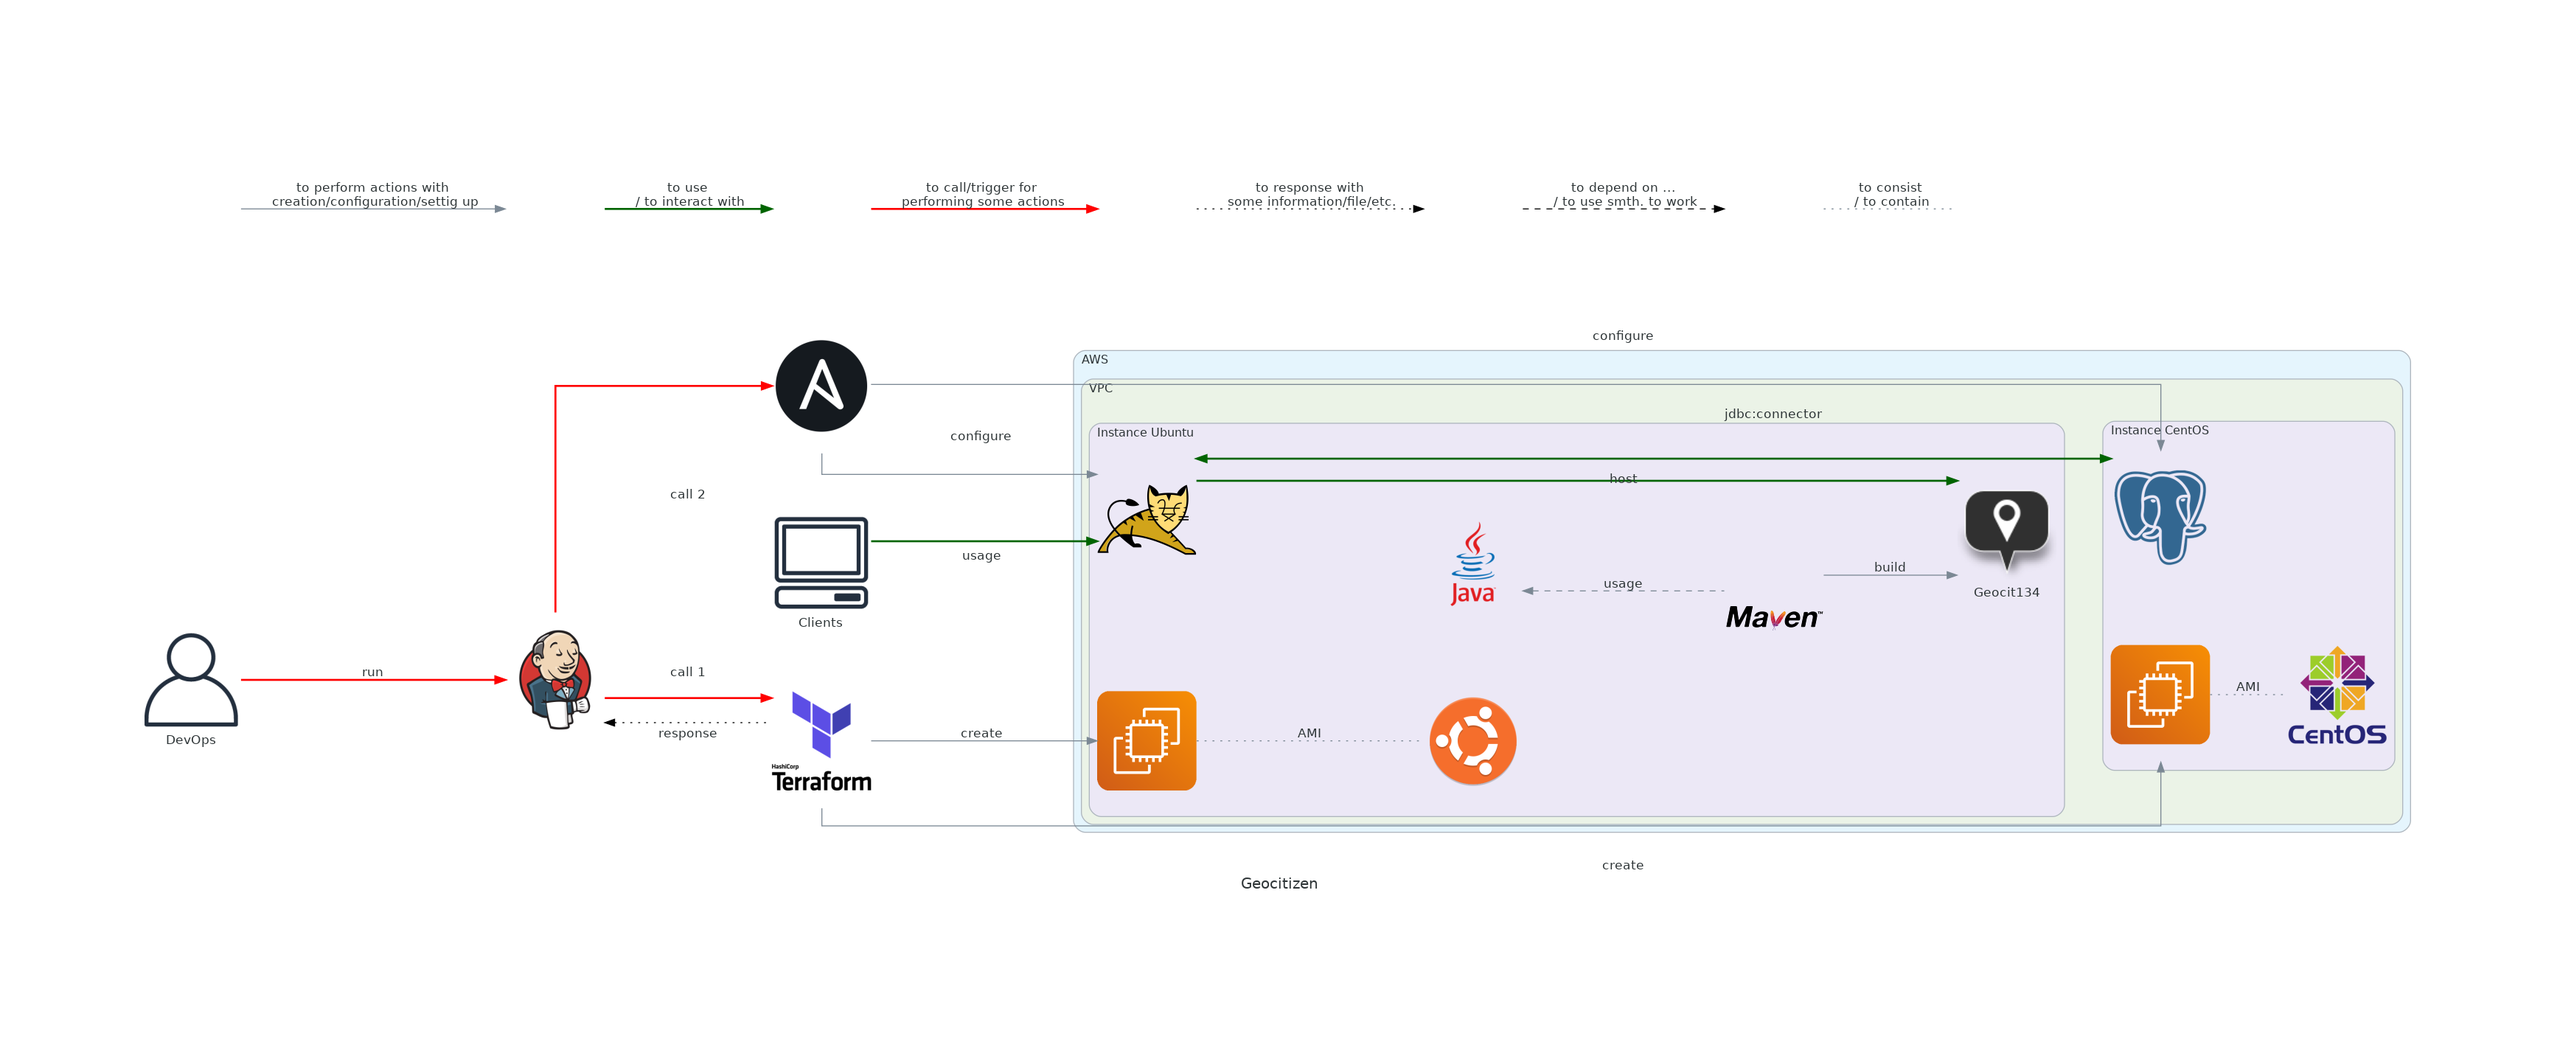
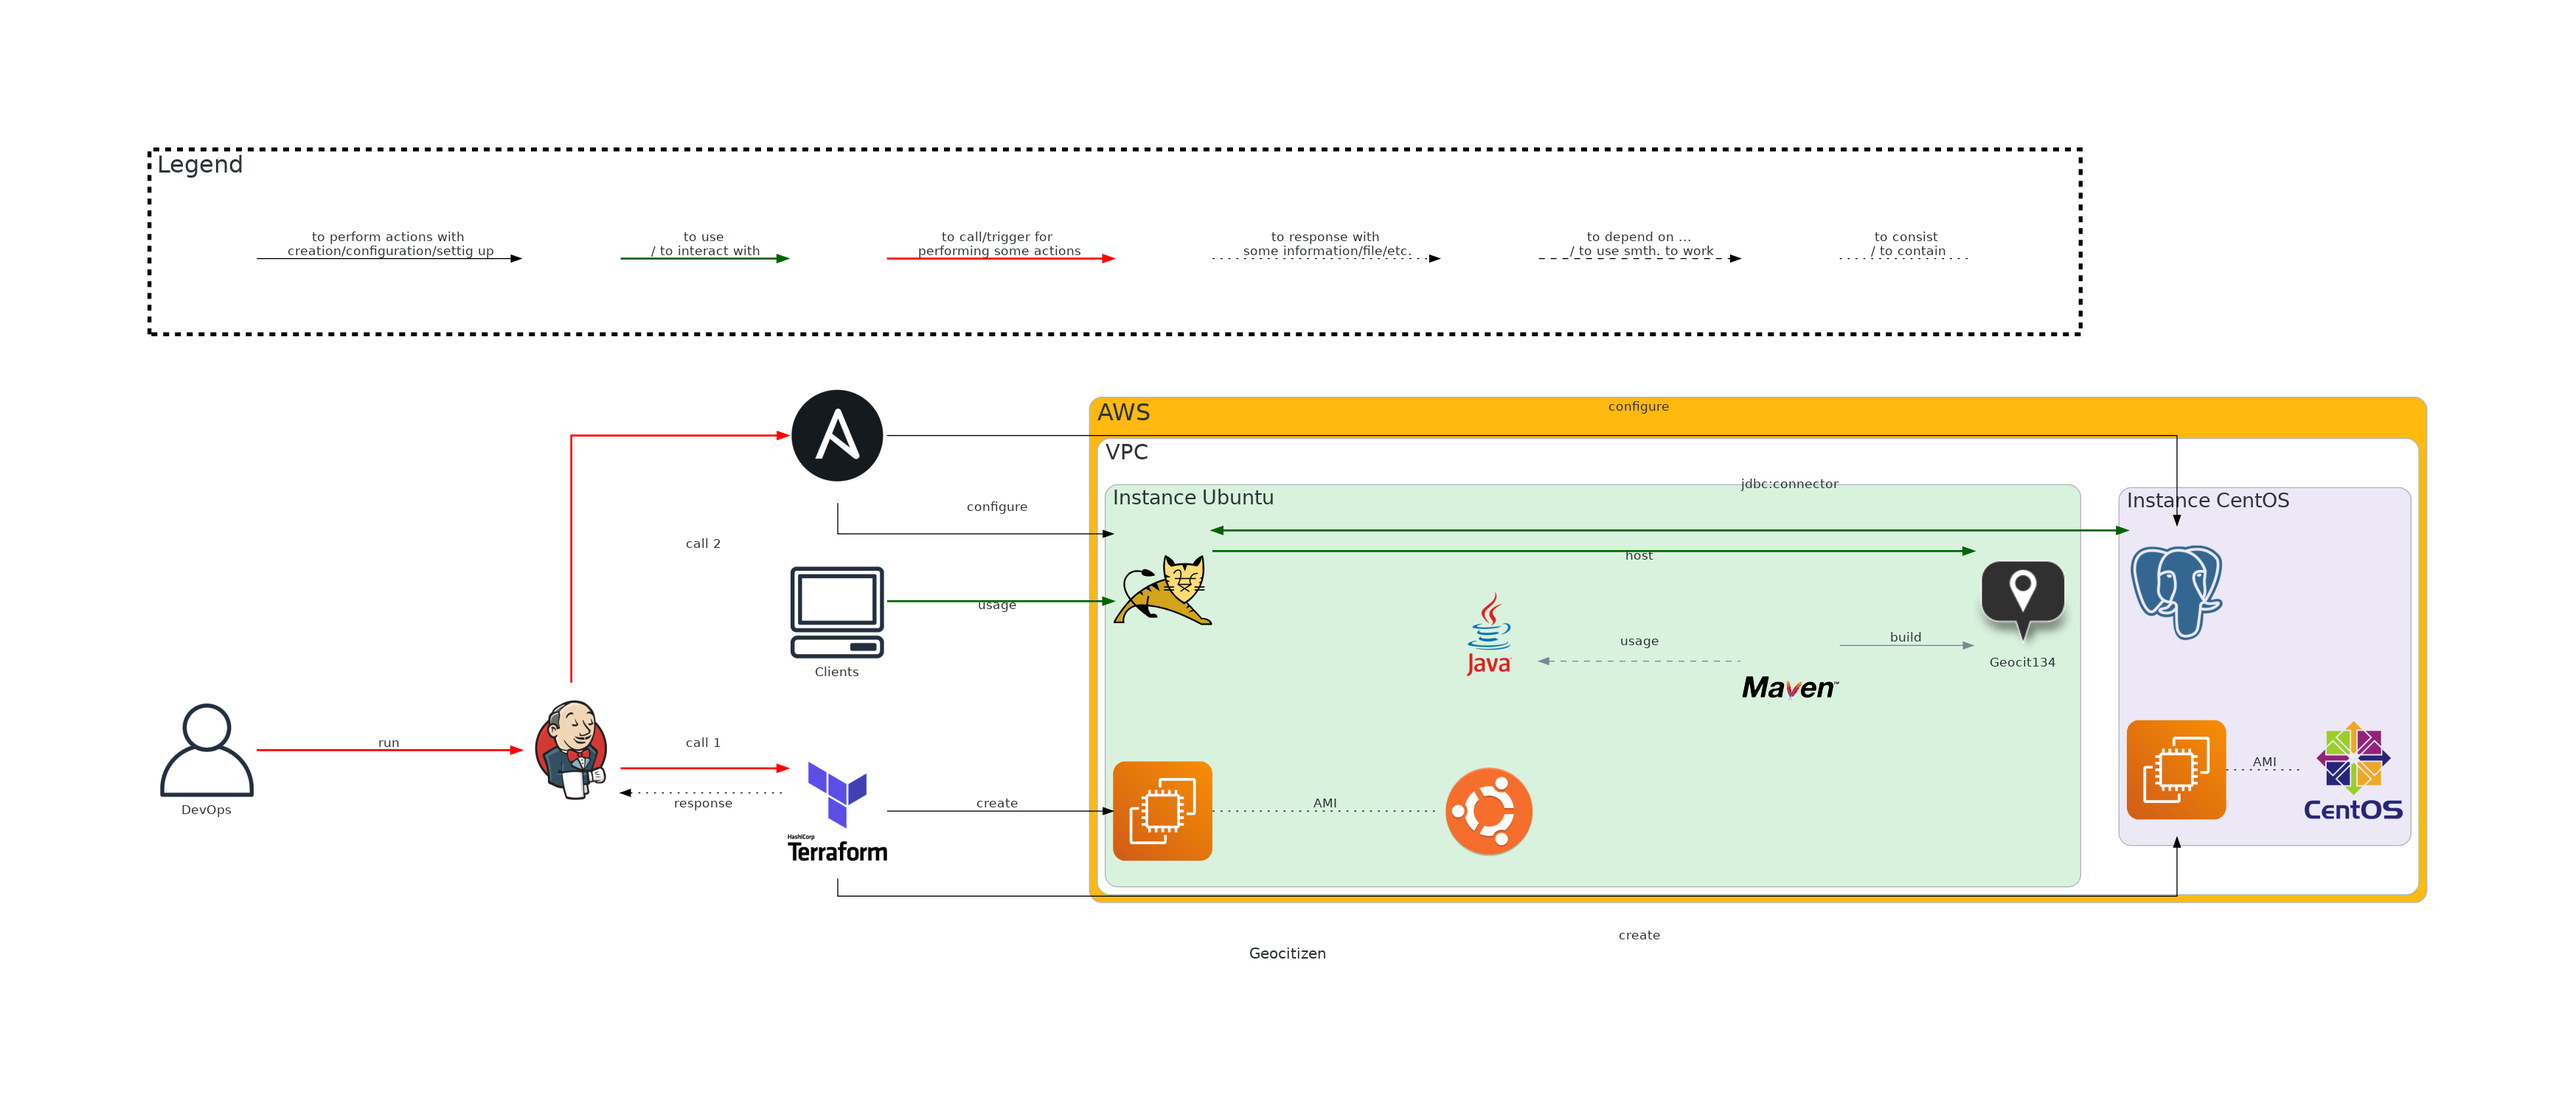
DC2-19 update: final2 version of hw

diff --git a/DaaC/diagram1.py b/DaaC/diagram1.py
@@ -1,3 +1,6 @@
+### import of modules
+##################################################
+
 # main
 from diagrams import Diagram, Cluster, Edge
 from diagrams.custom import Custom
@@ -18,19 +21,60 @@ from diagrams.onprem.database import Postgresql
 from diagrams.onprem.client import User
 from diagrams.onprem.client import Client
 
+### configurtions for clusters
+##################################################
+
+# config attribute for legend cluster
+legend_attr = {
+    "fontsize": "24",
+    "bgcolor": "transparent",
+    "pencolor": "black",
+    "penwidth": "4.0",
+    "style": "dashed",
+    "splines":"spline",
+}
+
+# config attribute for AWS cluster
+aws_attr = {
+    "fontsize": "24",
+    "bgcolor": "darkgoldenrod1",
+    "splines":"spline",
+}
+
+# config attribute for VPC cluster
+vpc_attr = {
+    "fontsize": "22",
+    "bgcolor": "white",
+    "splines":"spline",
+}
+
+# config attribute for Instance Ubuntu cluster
+ubuntu_attr = {
+    "fontsize": "20",
+    "bgcolor": "#D8F2DEFF",
+    "splines":"spline",
+}
+
+# config attribute for Instance CentOS cluster
+centos_attr = {
+    "fontsize": "20",
+    "bgcolor": "#ECE8F6FF",
+    "splines":"spline",
+}
+
 ### entrypoint
 ##################################################
 
 with Diagram("Geocitizen",  filename="Geocitizen1", show=False):
 
     ### remote infrastructure
-    with Cluster("AWS"):
+    with Cluster("AWS", graph_attr=aws_attr):
 
         ### group of EC2 instances
-        with Cluster("VPC"):
+        with Cluster("VPC", graph_attr=vpc_attr):
 
             ### server instance
-            with Cluster("Instance Ubuntu", direction="LR") as wer:
+            with Cluster("Instance Ubuntu", direction="LR", graph_attr=ubuntu_attr) as wer:
                 
                 # variables
                 java = Java()
@@ -49,13 +93,13 @@ with Diagram("Geocitizen",  filename="Geocitizen1", show=False):
 
                 #tomcat >> Edge(label="usage", style="dashed") >> java
                 tomcat >> Edge(label="host",style="bold", color="darkgreen") >> geo
-                ec2_u - Edge(label="AMI", style="dotted") - ubuntu
+                ec2_u - Edge(label="AMI", color="black", style="dotted") - ubuntu
 
                 ### cheat for prettifying
                 tomcat >> Edge(color="#00000000") >> java
 
             ### DB instance
-            with Cluster("Instance CentOS", direction="BT"):
+            with Cluster("Instance CentOS", graph_attr=centos_attr):
                 
                 # variables
                 psql = Postgresql()
@@ -63,7 +107,7 @@ with Diagram("Geocitizen",  filename="Geocitizen1", show=False):
                 ec2_c = EC2()
 
                 # links
-                ec2_c - Edge(label="AMI", style="dotted") - centos          
+                ec2_c - Edge(label="AMI", color="black", style="dotted") - centos          
 
     # inter-groups links
     tomcat >> \
@@ -92,11 +136,11 @@ with Diagram("Geocitizen",  filename="Geocitizen1", show=False):
         >> ansible \
 
     terraform \
-        >> Edge(label="create") \
+        >> Edge(label="create", color="black") \
         >> [ec2_u, ec2_c]
 
     ansible \
-        >> Edge(label="configure") \
+        >> Edge(label="configure", color="black") \
         >> [tomcat, psql]
 
     ### cheat for prettifying
@@ -110,28 +154,29 @@ with Diagram("Geocitizen",  filename="Geocitizen1", show=False):
 ### legend
 ##################################################
 
-    # empty variables
-    none1 = Custom("", "./img/null.png")
-    none2 = Custom("", "./img/null.png")
-    none3 = Custom("", "./img/null.png")
-    none4 = Custom("", "./img/null.png")
-    none5 = Custom("", "./img/null.png")
-    none6 = Custom("", "./img/null.png")
-    none7 = Custom("", "./img/null.png")
-    
-    # descri[tion for all types of arrows
-    none1 \
-    >> Edge(label="to perform actions with\n creation/configuration/settig up") \
-    >> none2 \
-    >> Edge(label="to use\n / to interact with", color="darkgreen", style="bold") \
-    >> none3 \
-    >> Edge(label="to call/trigger for\n performing some actions", color="red", style="bold") \
-    >> none4 \
-    >> Edge(label="to response with\n some information/file/etc.", color="black", style="dotted") \
-    >> none5 \
-    >> Edge(label="to depend on ...\n / to use smth. to work", color="black", style="dashed") \
-    >> none6
+    with Cluster(label="Legend",graph_attr=legend_attr):
+        # empty variables
+        none1 = Custom("", "./img/null.png")
+        none2 = Custom("", "./img/null.png")
+        none3 = Custom("", "./img/null.png")
+        none4 = Custom("", "./img/null.png")
+        none5 = Custom("", "./img/null.png")
+        none6 = Custom("", "./img/null.png")
+        none7 = Custom("", "./img/null.png")
 
-    none6 \
-    - Edge(label="to consist\n / to contain", style="dotted") \
-    - none7
+        # descri[tion for all types of arrows
+        none1 \
+        >> Edge(label="to perform actions with\n creation/configuration/settig up", color="black") \
+        >> none2 \
+        >> Edge(label="to use\n / to interact with", color="darkgreen", style="bold") \
+        >> none3 \
+        >> Edge(label="to call/trigger for\n performing some actions", color="red", style="bold") \
+        >> none4 \
+        >> Edge(label="to response with\n some information/file/etc.", color="black", style="dotted") \
+        >> none5 \
+        >> Edge(label="to depend on ...\n / to use smth. to work", color="black", style="dashed") \
+        >> none6
+
+        none6 \
+        - Edge(label="to consist\n / to contain", color="black", style="dotted") \
+        - none7
